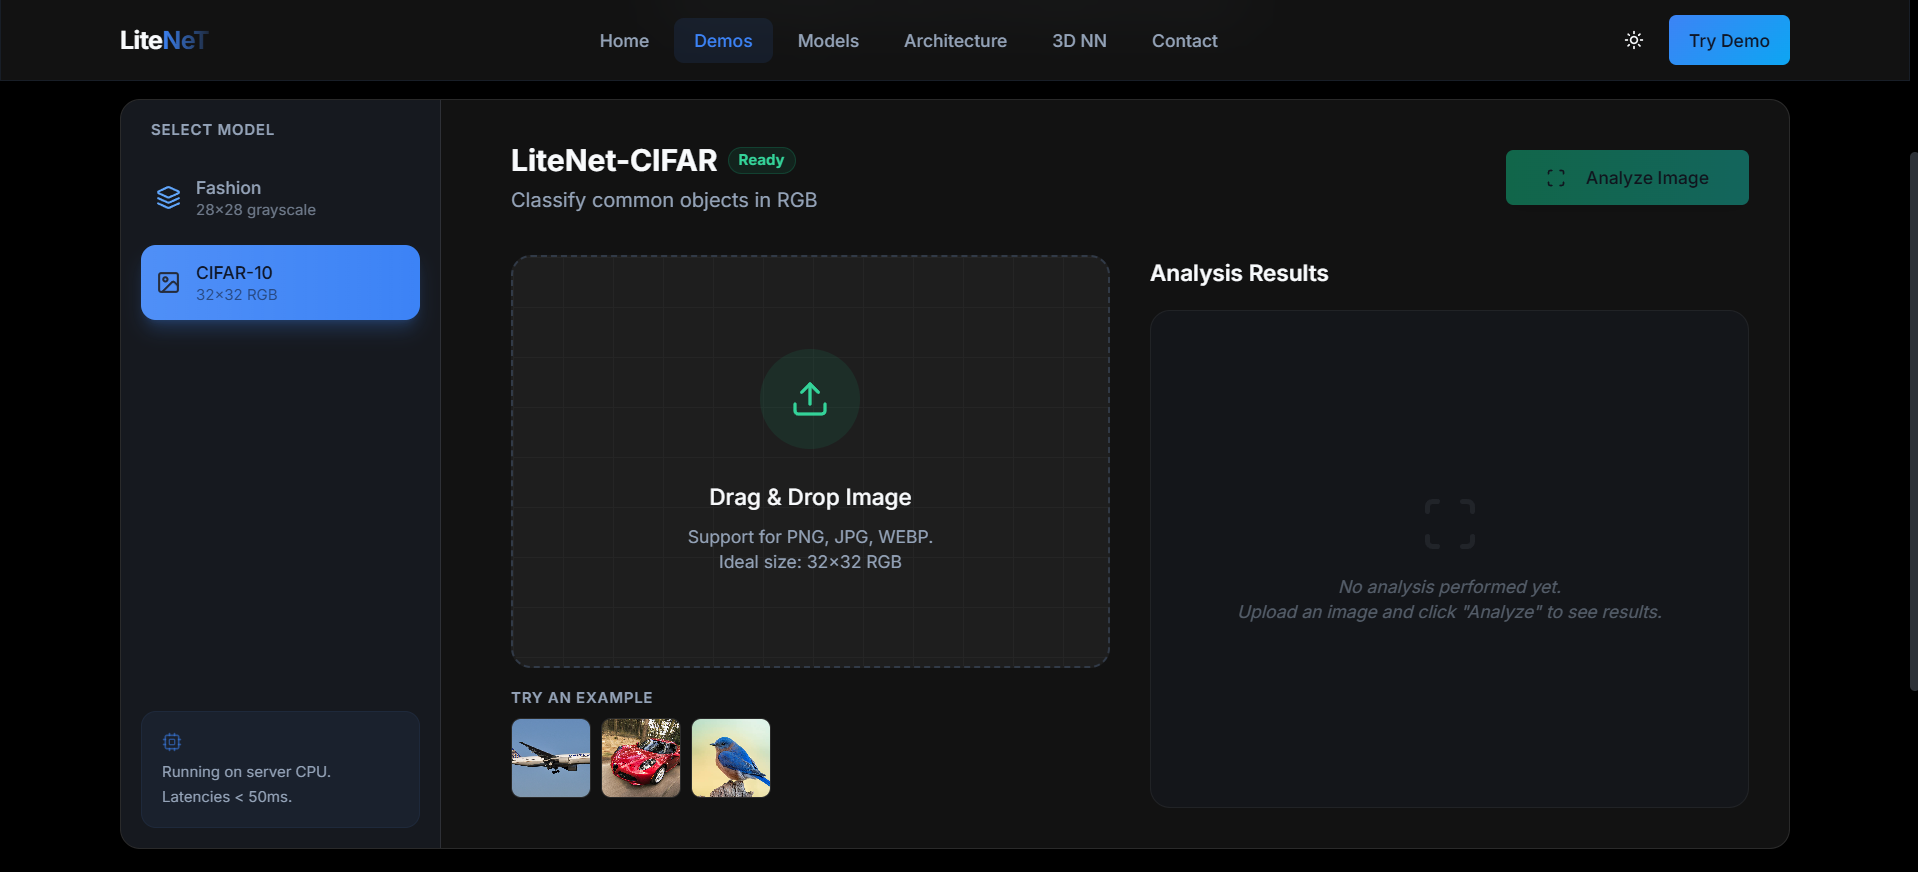
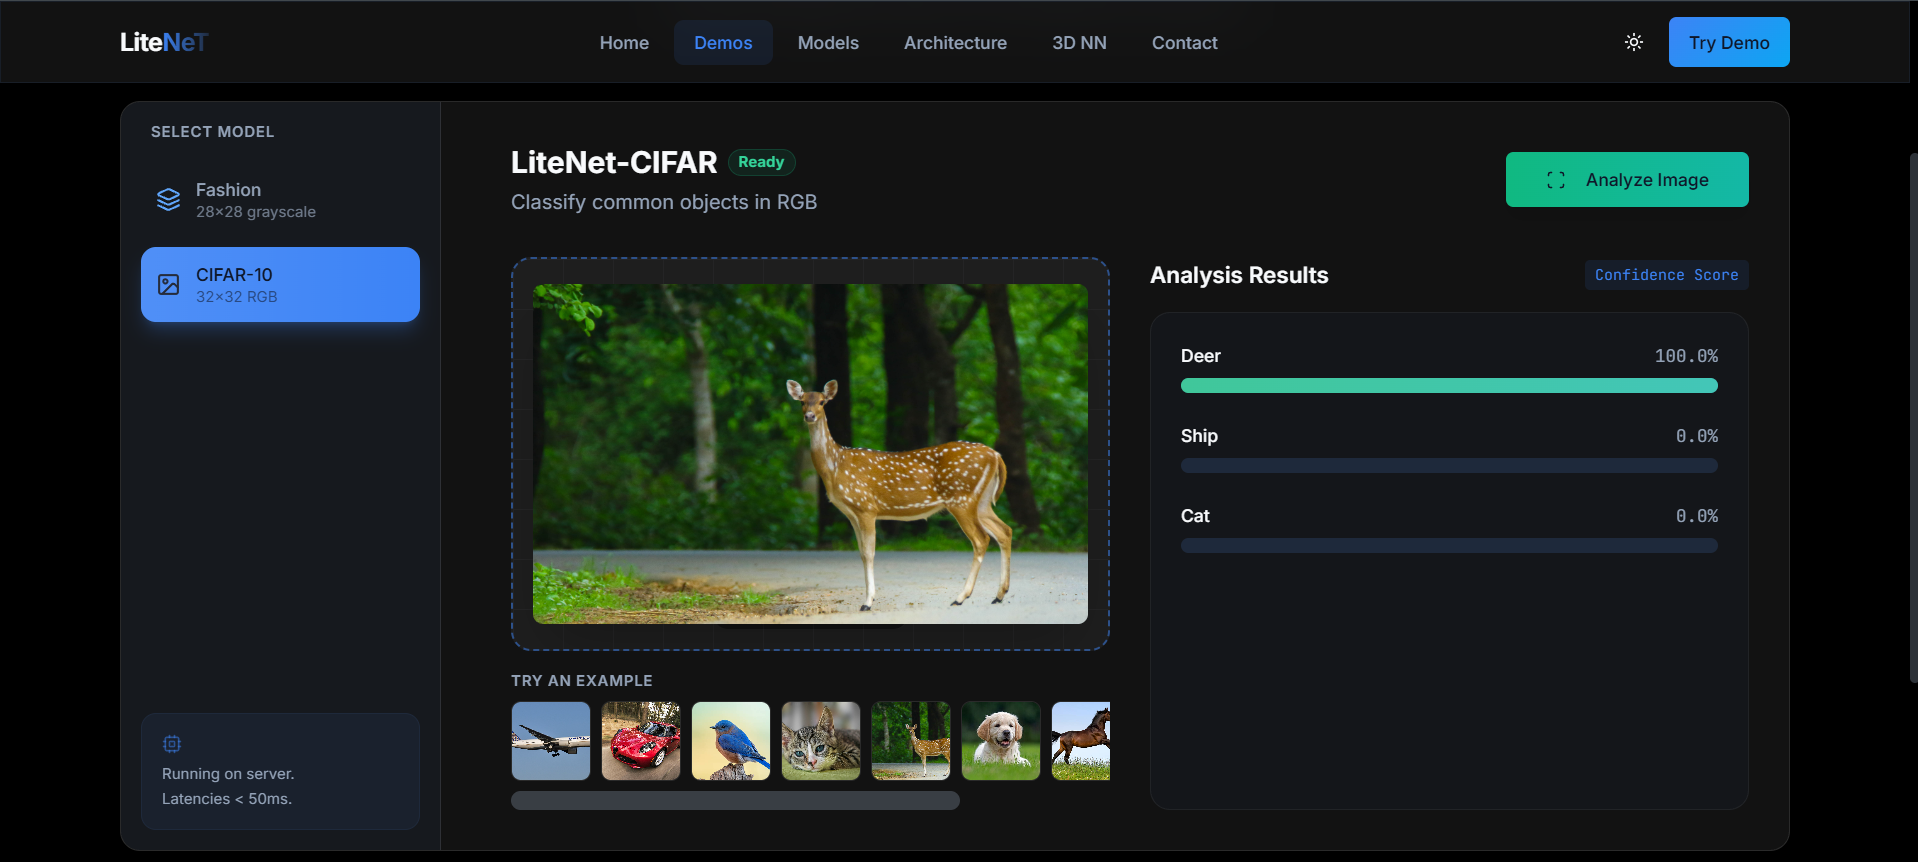
Fixes

diff --git a/src/pages/Projects.tsx b/src/pages/Projects.tsx
@@ -72,10 +72,11 @@ const Projects = () => {
             description: 'A comprehensive deep learning project featuring a custom Convolutional Neural Network architecture for advanced image classification. Includes comprehensive data preprocessing pipelines, model training optimization, thorough evaluation metrics, and production-ready deployment solutions.',
             screenshots: [
                 '/LiteNet_1.png',
-                '/Litenet_2.png'
+                '/LiteNet_2.png',
+                '/LiteNet_3.png'
             ],
             tags: ['Pytorch', 'Python', 'CNN'],
-            demoLink: '#',
+            demoLink: 'https://litenet.vercel.app',
             codeLink: '#',
             category: 'AI/ML',
             status: 'Completed',